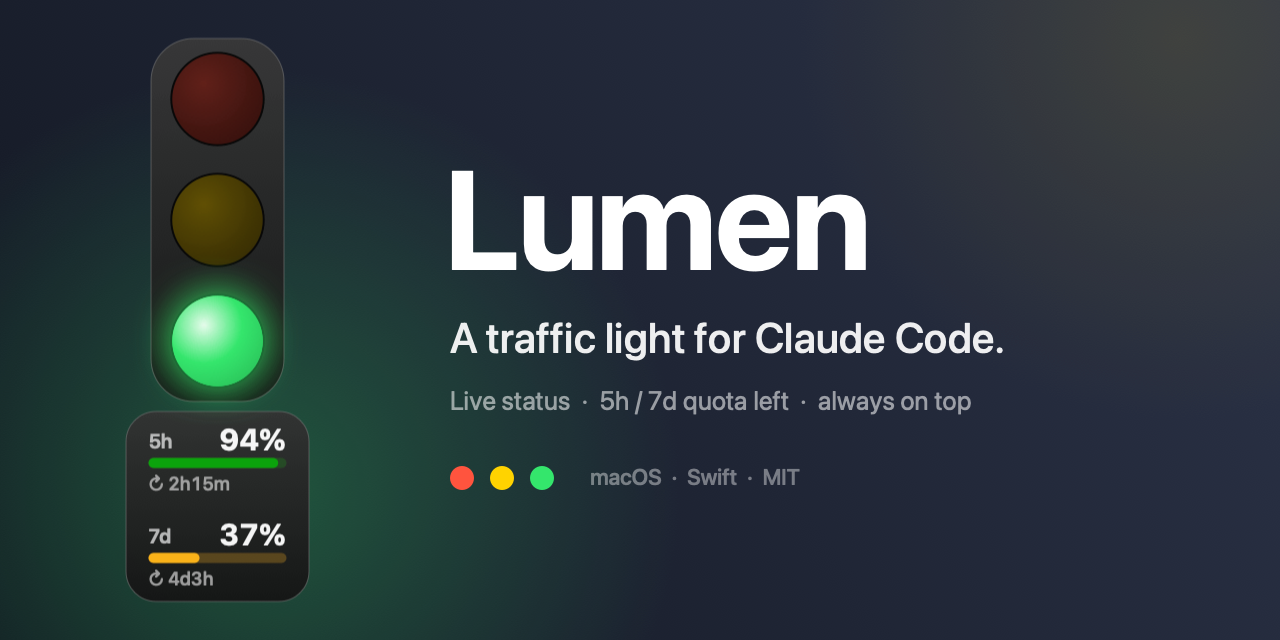
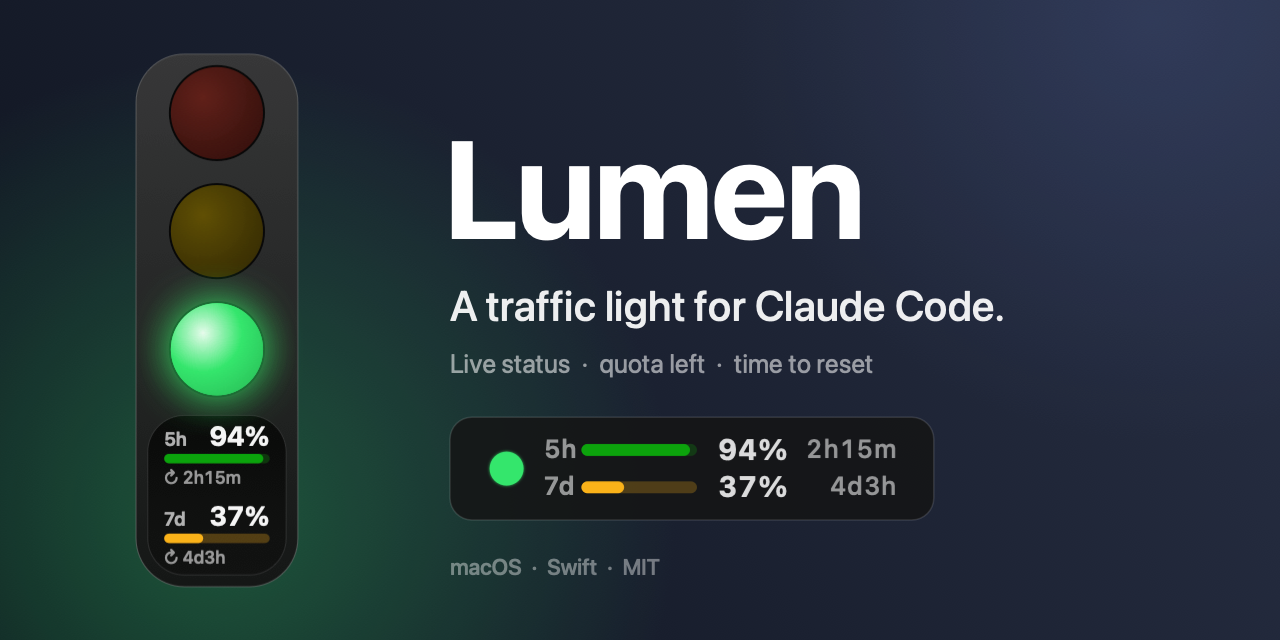
Unify light and gauge into one housing; refresh promo images; v1.0.0
- Gauge is now an inset display well inside the same body as the lamps
  (same width, concentric corners) instead of a wider separate card
- New banner (with menu bar readout), states and menu bar images
- README: download instructions for the release build
- Bundle version 1.0.0

diff --git a/Sources/main.swift b/Sources/main.swift
@@ -360,10 +360,12 @@ func quotaStatusColor(_ remaining: Double) -> NSColor {
 
 final class TrafficLightView: NSView {
     /// Höhe des Kontingent-Bereichs unter der Ampel (bei Skalierung 1.0)
-    static let gaugeAreaHeight: CGFloat = 80
+    static let gaugeAreaHeight: CGFloat = 76
     /// Breite des Fensters mit / ohne Kontingent-Sockel (bei Skalierung 1.0)
     static let panelWidth: CGFloat = 58
-    static let panelWidthWithQuota: CGFloat = 78
+    static let panelWidthWithQuota: CGFloat = 74
+    static let panelHeight: CGFloat = 150
+    static let panelHeightWithQuota: CGFloat = 232
 
     var state: LightState = .off { didSet { needsDisplay = true } }
     var quota: QuotaSnapshot? { didSet { needsDisplay = true } }
@@ -385,22 +387,23 @@ final class TrafficLightView: NSView {
     }
 
     /// Zeichnet die Kapsel mit den zwei Restanzeigen (5h / 7d).
-    private func drawGauge(in rect: NSRect) {
+    private func drawGauge(in rect: NSRect, wellRadius: CGFloat) {
         let s = uiScale
-        let capsule = NSBezierPath(roundedRect: rect, xRadius: 12 * s, yRadius: 12 * s)
-        NSGradient(starting: NSColor(white: 0.20, alpha: 0.96), ending: NSColor(white: 0.08, alpha: 0.96))?
-            .draw(in: capsule, angle: -90)
-        NSColor(white: 0.45, alpha: 0.6).setStroke()
-        capsule.lineWidth = 1
-        capsule.stroke()
+        // Eingelassenes Display im Gehäuse: dunkler als der Rahmen, feine Innenkante
+        let well = NSBezierPath(roundedRect: rect, xRadius: wellRadius, yRadius: wellRadius)
+        NSGradient(starting: NSColor(white: 0.02, alpha: 0.80), ending: NSColor(white: 0.07, alpha: 0.80))?
+            .draw(in: well, angle: -90)
+        NSColor(white: 1, alpha: 0.07).setStroke()
+        well.lineWidth = 1
+        well.stroke()
 
         let dim: CGFloat = (quota?.isStale ?? false) ? 0.5 : 1.0
         let rows: [(String, QuotaWindow?)] = [("5h", quota?.fiveHour), ("7d", quota?.sevenDay)]
         let rowH = rect.height / 2
-        let x = rect.minX + 9 * s
-        let w = rect.width - 18 * s
+        let x = rect.minX + 7 * s
+        let w = rect.width - 14 * s
         let labelFont = NSFont.systemFont(ofSize: 8 * s, weight: .semibold)
-        let pctFont = NSFont.monospacedDigitSystemFont(ofSize: 12 * s, weight: .bold)
+        let pctFont = NSFont.monospacedDigitSystemFont(ofSize: 11.5 * s, weight: .bold)
         let smallFont = NSFont.monospacedDigitSystemFont(ofSize: 7.5 * s, weight: .medium)
         let barH = 4 * s
         let gap = 3.5 * s
@@ -443,20 +446,13 @@ final class TrafficLightView: NSView {
 
     override func draw(_ dirtyRect: NSRect) {
         let pad: CGFloat = 6   // Platz für den Leuchtschein
-        var lightsBounds = bounds
-        var housingW = bounds.width - pad * 2
-        if showQuota {
-            let gaugeH = Self.gaugeAreaHeight * uiScale
-            lightsBounds = NSRect(x: 0, y: gaugeH, width: bounds.width, height: bounds.height - gaugeH)
-            housingW = Self.panelWidth * uiScale - pad * 2
-            drawGauge(in: NSRect(x: pad, y: pad, width: bounds.width - pad * 2, height: gaugeH - 4 * uiScale))
-        }
-        let inner = lightsBounds.insetBy(dx: 0, dy: pad)
-        let body = NSRect(x: lightsBounds.midX - housingW / 2, y: inner.minY, width: housingW, height: inner.height)
+        let body = bounds.insetBy(dx: pad, dy: pad)
+        let section = showQuota ? Self.gaugeAreaHeight * uiScale : 0
+        // Lampenbereich = Gehäuse ohne den Display-Sockel
+        let lampsBody = NSRect(x: body.minX, y: body.minY + section, width: body.width, height: body.height - section)
+        let radius = body.width * (showQuota ? 0.30 : 0.32)
 
-        let radius = body.width * 0.32
-
-        // Gehäuse
+        // Gehäuse (ein Stück für Lampen und Display)
         let housing = NSBezierPath(roundedRect: body, xRadius: radius, yRadius: radius)
         NSGradient(starting: NSColor(white: 0.22, alpha: 0.96), ending: NSColor(white: 0.08, alpha: 0.96))?
             .draw(in: housing, angle: -90)
@@ -464,13 +460,19 @@ final class TrafficLightView: NSView {
         housing.lineWidth = 1
         housing.stroke()
 
+        if showQuota {
+            let m = 5 * uiScale
+            let well = NSRect(x: body.minX + m, y: body.minY + m, width: body.width - 2 * m, height: section - m - 3 * uiScale)
+            drawGauge(in: well, wellRadius: radius - m)
+        }
+
         // Drei Lampen von oben nach unten: rot, gelb, grün
         let lamps: [LightState] = [.red, .yellow, .green]
-        let slot = body.height / 3
-        let d = min(body.width * 0.68, slot * 0.78)
+        let slot = lampsBody.height / 3
+        let d = min(lampsBody.width * 0.68, slot * 0.78)
         for (i, lamp) in lamps.enumerated() {
-            let cy = body.maxY - slot * (CGFloat(i) + 0.5)
-            let rect = NSRect(x: body.midX - d / 2, y: cy - d / 2, width: d, height: d)
+            let cy = lampsBody.maxY - slot * (CGFloat(i) + 0.5)
+            let rect = NSRect(x: lampsBody.midX - d / 2, y: cy - d / 2, width: d, height: d)
             let circle = NSBezierPath(ovalIn: rect)
             let c = color(for: lamp)
             let lit = lamp == state && (state != .yellow || blinkOn)
@@ -564,7 +566,7 @@ final class AppDelegate: NSObject, NSApplicationDelegate, NSMenuDelegate {
 
     private var baseSize: NSSize {
         NSSize(width: (showQuota ? TrafficLightView.panelWidthWithQuota : TrafficLightView.panelWidth) * scale,
-               height: (150 + (showQuota ? TrafficLightView.gaugeAreaHeight : 0)) * scale)
+               height: (showQuota ? TrafficLightView.panelHeightWithQuota : TrafficLightView.panelHeight) * scale)
     }
 
     /// Fenstergröße anpassen; die Oberkante bleibt an Ort und Stelle.

diff --git a/README.de.md b/README.de.md
@@ -42,6 +42,10 @@ Lumen schwebt über allen Fenstern (und in der Menüleiste) und zeigt auf einen 
 
 ## Installation
 
+**Download:** `Lumen-1.0.0-macos-universal.zip` von den [Releases](https://github.com/ClarkeLi/Lumen/releases/latest) laden (Apple Silicon + Intel), entpacken und `Lumen.app` ins Programme-Verzeichnis ziehen. Die App ist nicht notarisiert – beim ersten Start per Rechtsklick → **Öffnen** starten oder `xattr -cr /Applications/Lumen.app` ausführen.
+
+**Oder aus dem Quellcode bauen:**
+
 ```sh
 git clone https://github.com/ClarkeLi/Lumen.git
 cd Lumen

diff --git a/README.md b/README.md
@@ -42,6 +42,10 @@ Lumen sits on top of your windows (and in the menu bar) and tells you at a glanc
 
 ## Install
 
+**Download:** grab `Lumen-1.0.0-macos-universal.zip` from [Releases](https://github.com/ClarkeLi/Lumen/releases/latest) (Apple Silicon + Intel), unzip and move `Lumen.app` to `/Applications`. The app is not notarized, so on first launch right-click it → **Open**, or run `xattr -cr /Applications/Lumen.app`.
+
+**Or build from source:**
+
 ```sh
 git clone https://github.com/ClarkeLi/Lumen.git
 cd Lumen
